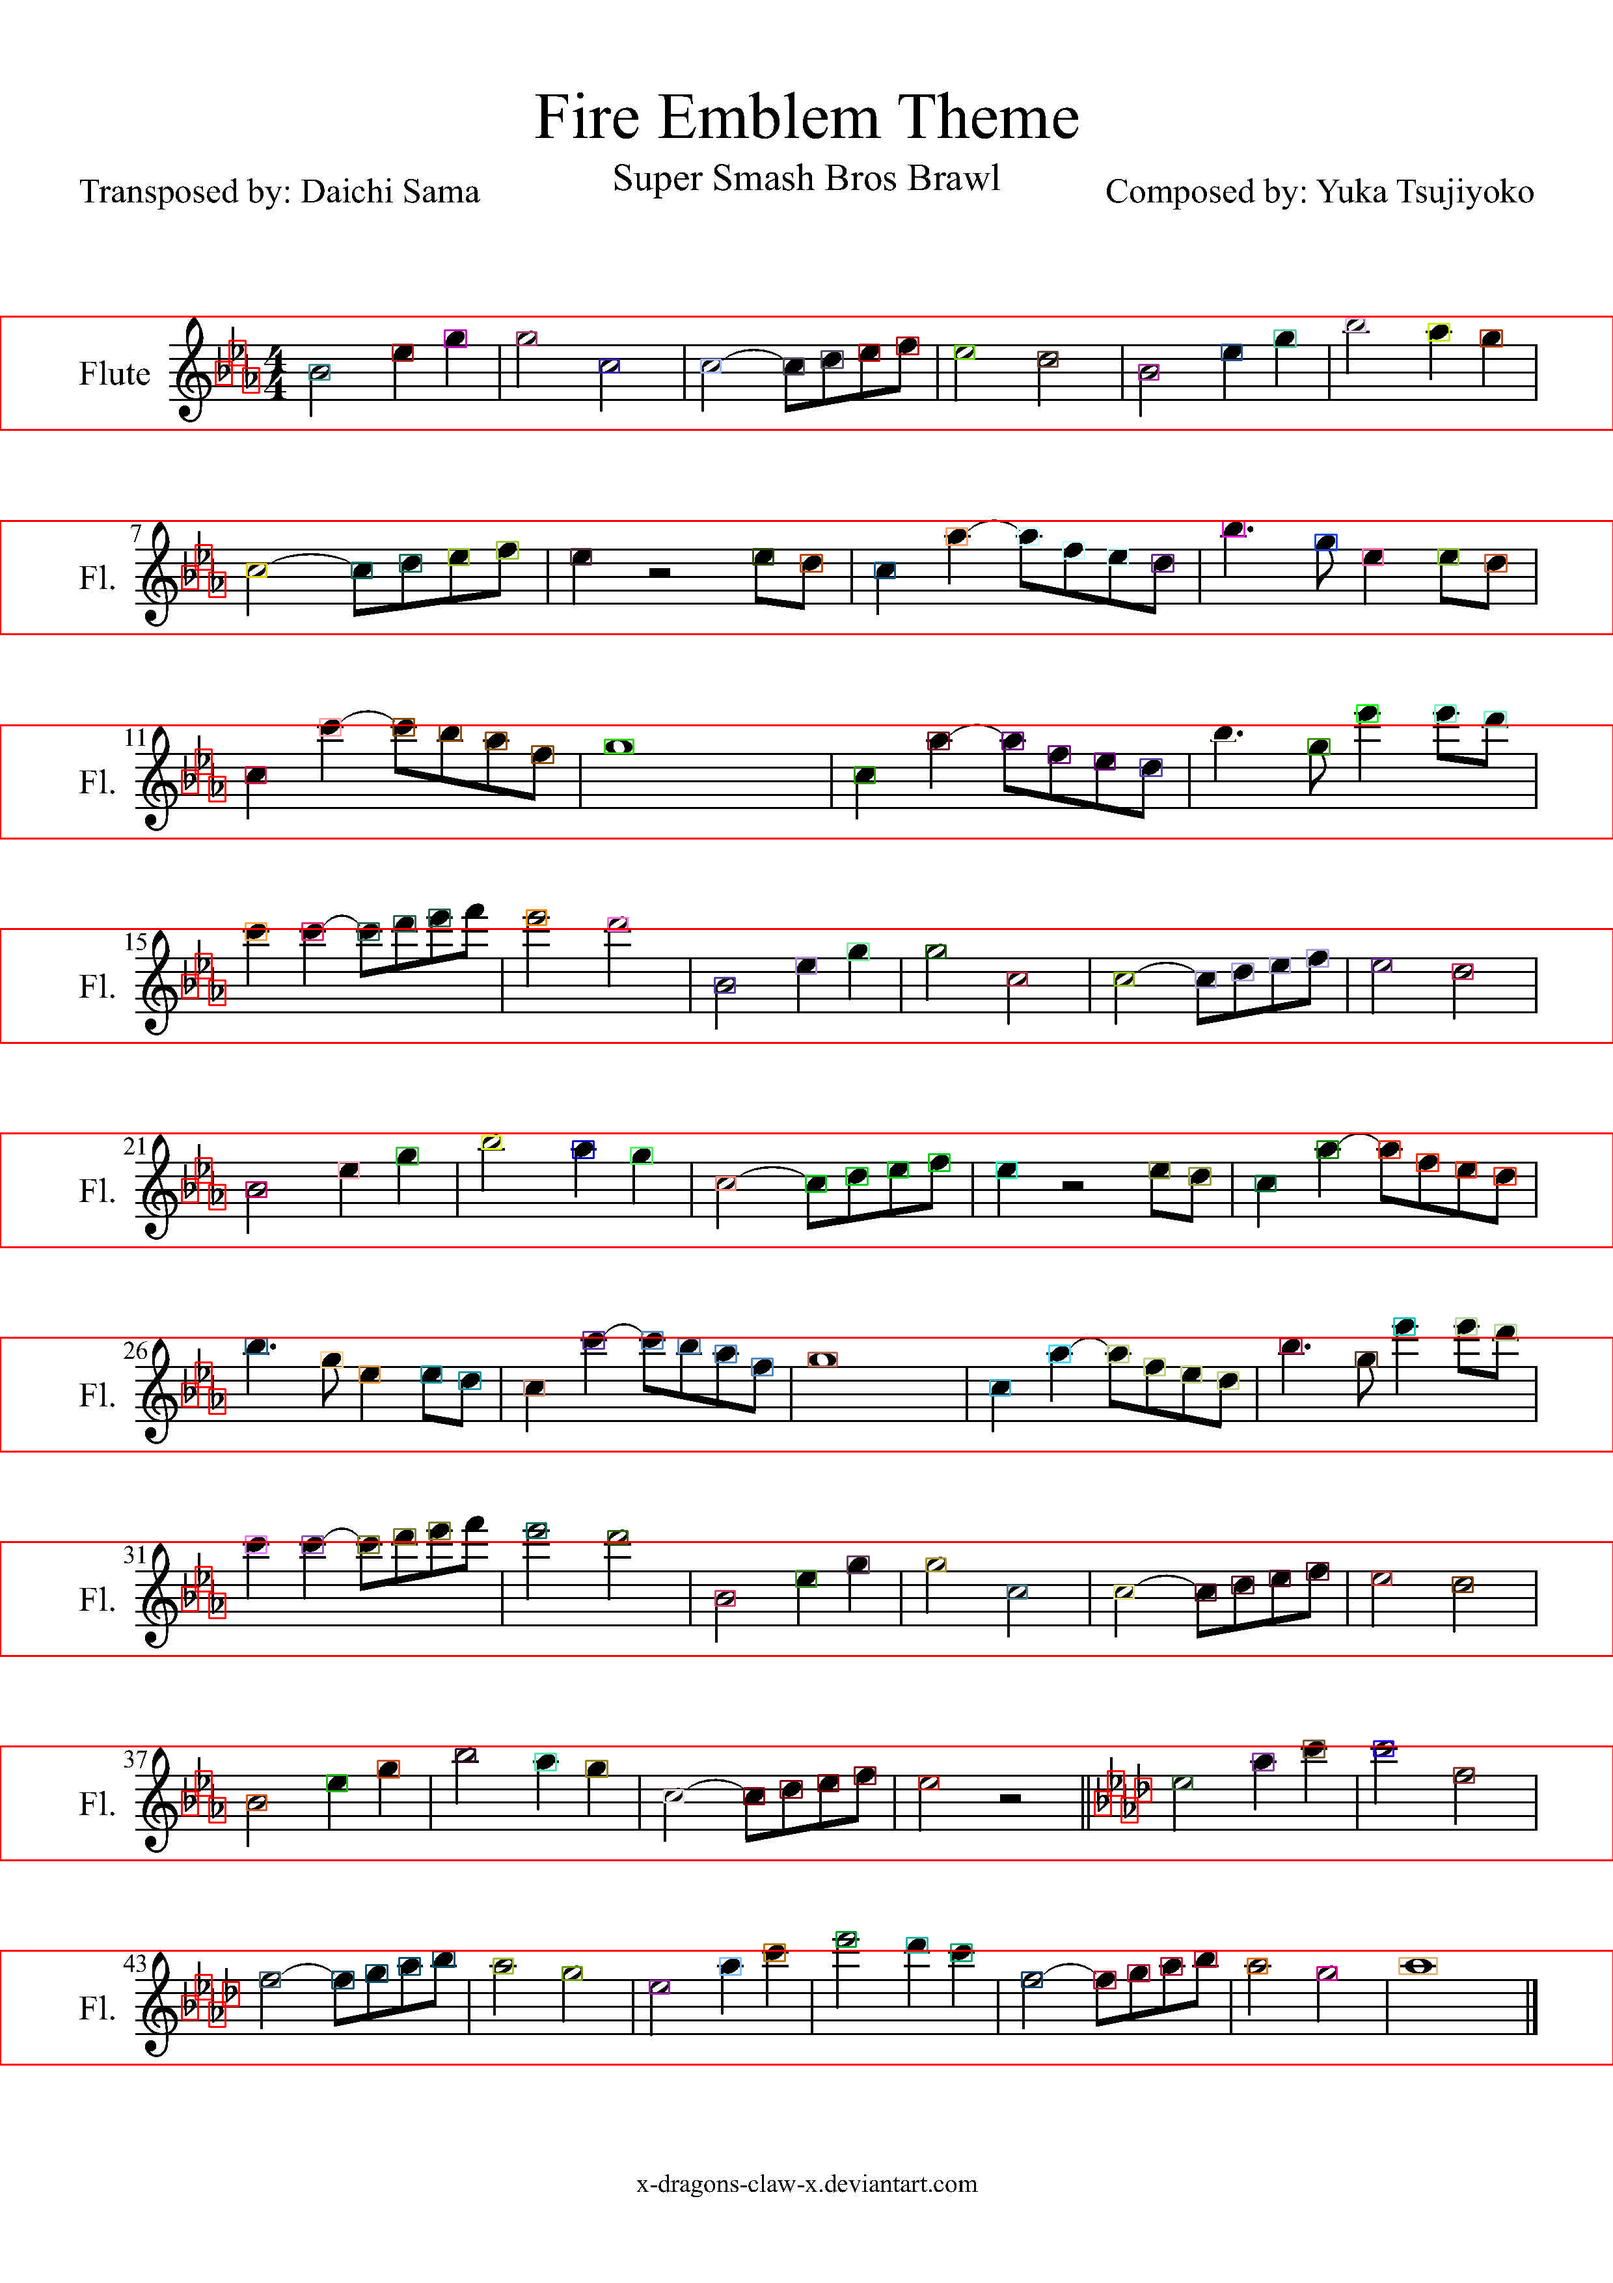
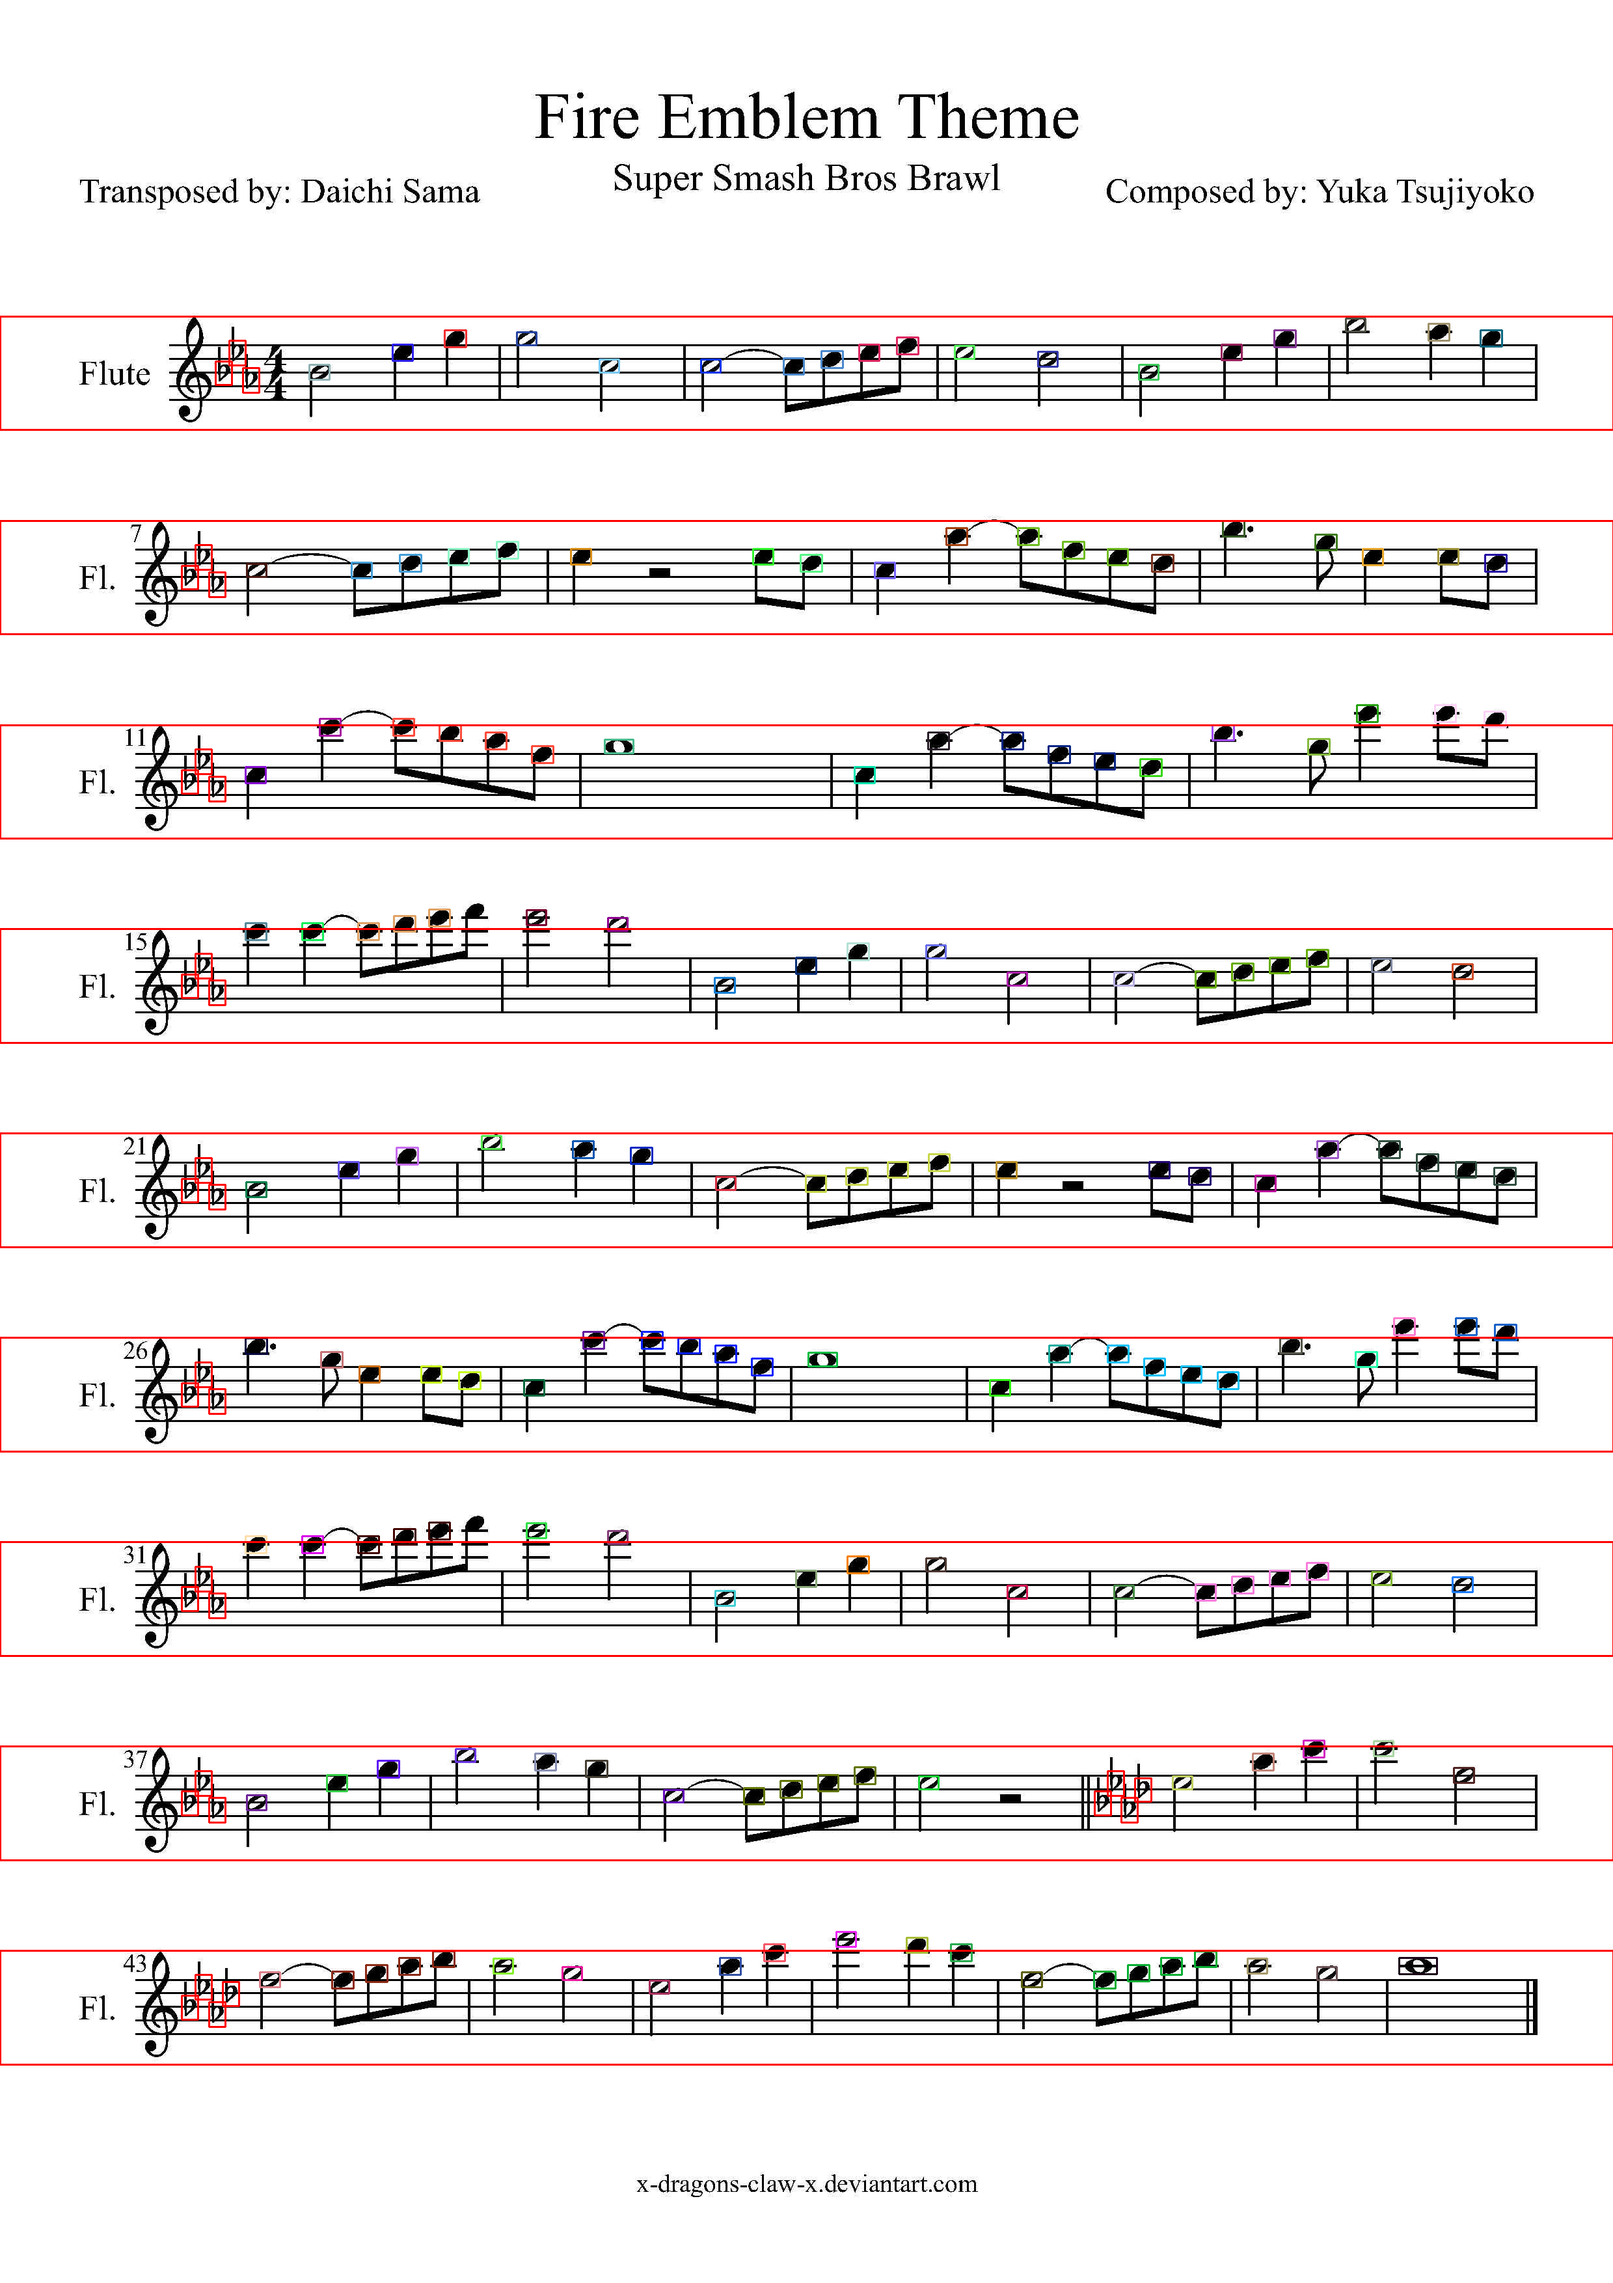
템플릿 필터링까지 코멘트 추가

diff --git a/사용할 opensource/SheetVision-master/main.py b/사용할 opensource/SheetVision-master/main.py
@@ -54,6 +54,9 @@ whole_lower, whole_upper, whole_thresh = 50, 150, 0.70
 
 
 def locate_images(img, templates, start, stop, threshold):
+    '''
+    이미지에서 템플릿과 일치하는 부분의 rectangle 객체 반환
+    '''
     locations, scale = fit(img, templates, start, stop, threshold)
     img_locations = []
     for i in range(len(templates)):
@@ -96,9 +99,12 @@ if __name__ == "__main__":
     ret,img_gray = cv2.threshold(img_gray,127,255,cv2.THRESH_BINARY)    # 이미지 흑백으로 이진화해서 img_gray에 저장
     img_width, img_height = img_gray.shape[::-1]    # 이미지 너비, 높이 정보
 
+    # 이미지에서 오선지 좌표 받기
     print("Matching staff image...")
     staff_recs = locate_images(img_gray, staff_imgs, staff_lower, staff_upper, staff_thresh)
 
+    # 검출한 여러 크기의 rectangle 중에서 빈도가 가장 많은 rect로 필터링.
+    # 사이즈 같은 rect만 남음
     print("Filtering weak staff matches...")
     staff_recs = [j for i in staff_recs for j in i]
     heights = [r.y for r in staff_recs] + [0]

diff --git a/사용할 opensource/SheetVision-master/best_fit.py b/사용할 opensource/SheetVision-master/best_fit.py
@@ -3,6 +3,9 @@ import matplotlib.pyplot as plt
 import numpy as np
 
 def fit(img, templates, start_percent, stop_percent, threshold):
+    '''
+    이미지에서 템플릿과 일치하는 위치와, 사이즈 몇 배 차이나는지 반환
+    '''
     img_width, img_height = img.shape[::-1]
     best_location_count = -1
     best_locations = []
